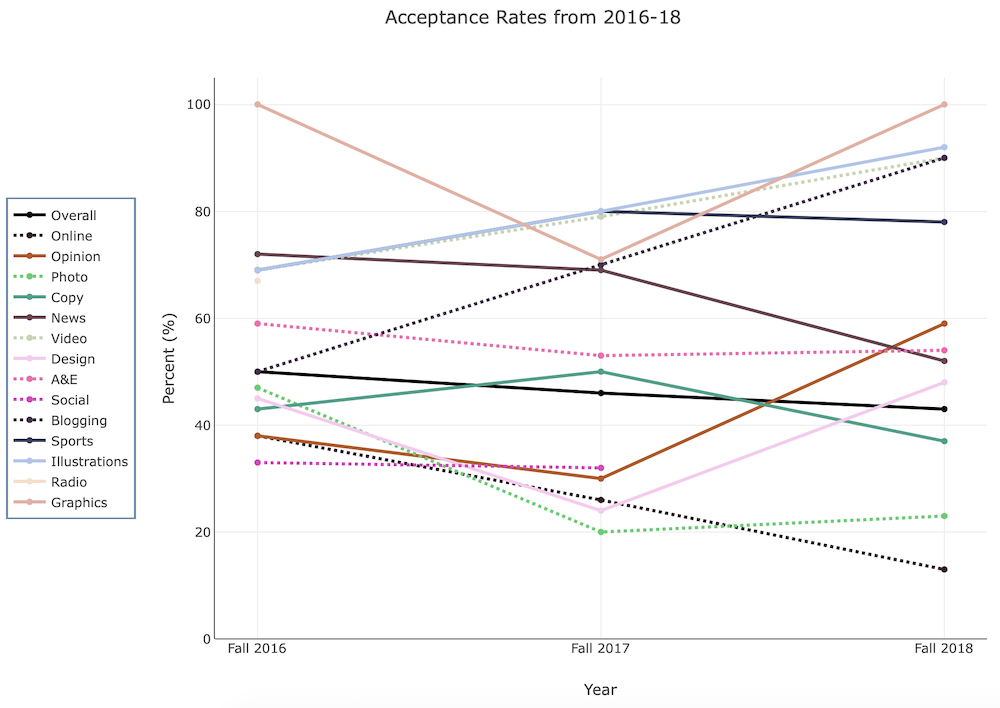
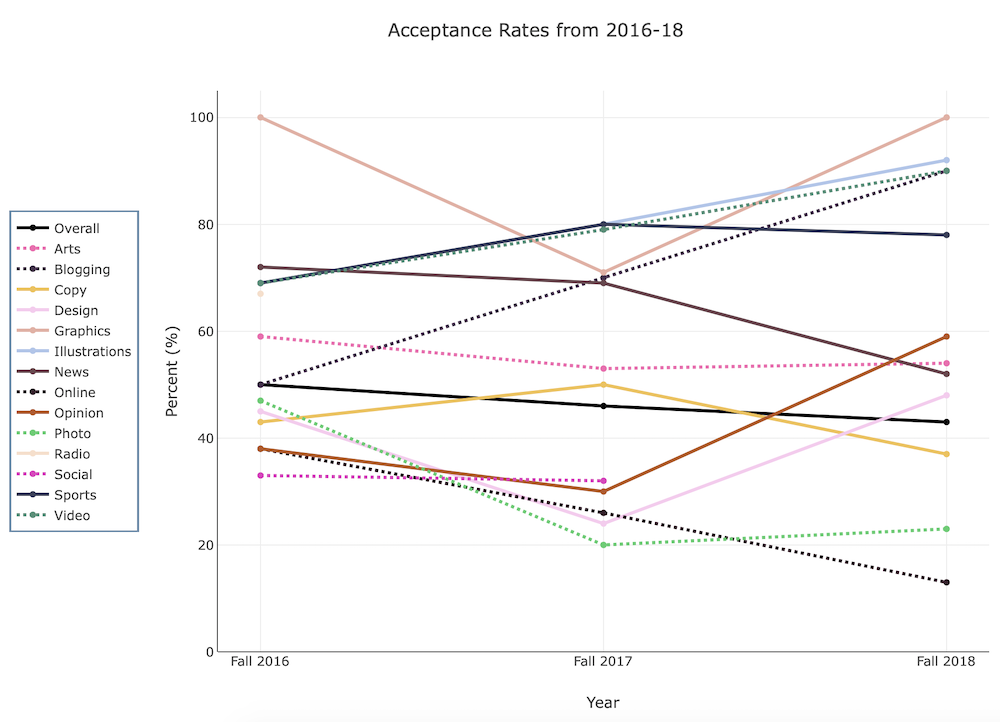
changed colors of graphs, edited text

diff --git a/js/posts/2018db-recruitment/acceptances-by-department.js b/js/posts/2018db-recruitment/acceptances-by-department.js
@@ -1,26 +1,34 @@
 
-		var data = [{
-		  values: [39, 67, 27, 5, 46, 5, 21, 7],
-		  labels: ['Humanities (Total): 39<br><br>Arts: 7<br>Blogging: 3<br>Copy: 7<br>Design: 1<br>Graphics: 1<br>Illustrations: 0<br>News: 7<br>Online: 2<br>Opinion: 4<br>Photo: 0<br>Sports: 2<br>Video: 5<br>', 
-		  	'Social Sciences (Total): 67<br><br>Arts: 3<br>Blogging: 0<br>Copy: 6<br>Design: 0<br>Graphics: 3<br>Illustrations: 3<br>News: 12<br>Online: 0<br>Opinion: 15<br>Photo: 3<br>Sports: 9<br>Video: 13<br>', 
-		  	'Physical Sciences (Total): 27<br><br>Arts: 0<br>Blogging: 2<br>Copy: 2<br>Design: 1<br>Graphics: 1<br>Illustrations: 1<br>News: 5<br>Online: 5<br>Opinion: 1<br>Photo: 1<br>Sports: 3<br>Video: 5<br>', 
-		  	'Undeclared (Total): 5<br><br>Arts: 1<br>Blogging: 0<br>Copy: 0<br>Design: 0<br>Graphics: 0<br>Illustrations: 0<br>News: 1<br>Online: 0<br>Opinion: 0<br>Photo: 1<br>Sports: 2<br>Video: 0<br>', 
-		  	'Life Sciences (Total): 46<br><br>Arts: 1<br>Blogging: 3<br>Copy: 6<br>Design: 4<br>Graphics: 5<br>Illustrations: 6<br>News: 8<br>Online: 0<br>Opinion: 5<br>Photo: 6<br>Sports: 1<br>Video: 1<br>',
-		  	'Theater, Film, and Television (Total): 5<br><br>Arts: 2<br>Blogging: 0<br>Copy: 0<br>Design: 0<br>Graphics: 0<br>Illustrations: 0<br>News: 0<br>Online: 0<br>Opinion: 0<br>Photo: 1<br>Sports: 1<br>Video: 1<br>',
-		  	'School of Engineering (Total): 21<br><br>Arts: 1<br>Blogging: 1<br>Copy: 1<br>Design: 3<br>Graphics: 0<br>Illustrations: 0<br>News: 2<br>Online: 11<br>Opinion: 0<br>Photo: 0<br>Sports: 1<br>Video: 1<br>',
-		  	'School of the Arts and Architecture (Total): 7<br><br>Arts: 0<br>Blogging: 0<br>Copy: 0<br>Design: 1<br>Graphics: 0<br>Illustrations: 2<br>News: 0<br>Online: 0<br>Opinion: 0<br>Photo: 3<br>Sports: 0<br>Video: 1<br>'
-		  	],
-		  hoverinfo: 'label+percent',
-		  type: 'pie'
-		}]
+var data = [{
+  type: 'pie',
+  marker: {
+    colors: ['#0D0630', '#43384F', '#8BBEB2','#E6F9AF','#DAB49D','#4D1930', '#A8CC9E', '#C1CE47']
+  },
+      values: [39, 67, 27, 5, 46, 5, 21, 7],
+      text:['Humanities','Social Sciences', 'Physical Sciences',
+      'Undeclared', 'Life Sciences', 'Theater, Film, and Television',
+    'School of Engineering', 'School of the Arts and Architecture' ],
+      hovertext: ['Humanities (Total): 39<br><br>Arts: 7<br>Blogging: 3<br>Copy: 7<br>Design: 1<br>Graphics: 1<br>Illustrations: 0<br>News: 7<br>Online: 2<br>Opinion: 4<br>Photo: 0<br>Sports: 2<br>Video: 5<br>',
+      'Social Sciences (Total): 67<br><br>Arts: 3<br>Blogging: 0<br>Copy: 6<br>Design: 0<br>Graphics: 3<br>Illustrations: 3<br>News: 12<br>Online: 0<br>Opinion: 15<br>Photo: 3<br>Sports: 9<br>Video: 13<br>',
+      'Physical Sciences (Total): 27<br><br>Arts: 0<br>Blogging: 2<br>Copy: 2<br>Design: 1<br>Graphics: 1<br>Illustrations: 1<br>News: 5<br>Online: 5<br>Opinion: 1<br>Photo: 1<br>Sports: 3<br>Video: 5<br>',
+      'Undeclared (Total): 5<br><br>Arts: 1<br>Blogging: 0<br>Copy: 0<br>Design: 0<br>Graphics: 0<br>Illustrations: 0<br>News: 1<br>Online: 0<br>Opinion: 0<br>Photo: 1<br>Sports: 2<br>Video: 0<br>',
+      'Life Sciences (Total): 46<br><br>Arts: 1<br>Blogging: 3<br>Copy: 6<br>Design: 4<br>Graphics: 5<br>Illustrations: 6<br>News: 8<br>Online: 0<br>Opinion: 5<br>Photo: 6<br>Sports: 1<br>Video: 1<br>',
+      'Theater, Film, and Television (Total): 5<br><br>Arts: 2<br>Blogging: 0<br>Copy: 0<br>Design: 0<br>Graphics: 0<br>Illustrations: 0<br>News: 0<br>Online: 0<br>Opinion: 0<br>Photo: 1<br>Sports: 1<br>Video: 1<br>',
+      'School of Engineering (Total): 21<br><br>Arts: 1<br>Blogging: 1<br>Copy: 1<br>Design: 3<br>Graphics: 0<br>Illustrations: 0<br>News: 2<br>Online: 11<br>Opinion: 0<br>Photo: 0<br>Sports: 1<br>Video: 1<br>',
+      'School of the Arts and Architecture (Total): 7<br><br>Arts: 0<br>Blogging: 0<br>Copy: 0<br>Design: 1<br>Graphics: 0<br>Illustrations: 2<br>News: 0<br>Online: 0<br>Opinion: 0<br>Photo: 3<br>Sports: 0<br>Video: 1<br>'
+      ],
+      hoverinfo:'text',
+      labels: ['Humanities','Social Sciences', 'Physical Sciences',
+      'Undeclared', 'Life Sciences', 'Theater, Film, and Television',
+    'School of Engineering', 'School of the Arts and Architecture' ]
+}];
 
-		var layout = {
-		  title: 'Breakdown by Department, Acceptances 2018-2019',
-		  height: 600,
-		  width: 500,
-		  showlegend: false
-		};
+var layout = {
+	title: '2018 Acceptances by Department',
+	height: 700,
+  width: 1100,
+};
 
-Plotly.newPlot('acceptance-rate-by-year-graph', data, layout, {
+Plotly.newPlot('majors-graph', data, layout, {
   displayModeBar: false
 });

diff --git a/js/posts/2018db-recruitment/acceptances-by-year-2018-2019.js b/js/posts/2018db-recruitment/acceptances-by-year-2018-2019.js
@@ -6,7 +6,7 @@
       name: 'First Years',
       type: 'bar',
       marker: {
-        color: 'rgb(255, 128, 255)'
+        color: '#32A287'
       },
       text: ['First Years: 8', 'First Years: 6', 'First Years: 12', 'First Years: 9', 'First Years: 1', 'First Years: 4',
       'First Years: 15', 'First Years: 8', 'First Years: 14', 'First Years: 11', 'First Years: 10', 'First Years: 7'
@@ -20,7 +20,7 @@
       name: 'Second Years',
       type: 'bar',
       marker: {
-        color: 'rgb(255, 153, 0)'
+        color: '#ADA8B6'
       },
       text: ['Second Years: 2', 'Second Years: 0', 'Second Years: 4', 'Second Years: 1', 'Second Years: 4', 'Second Years: 4',
       'Second Years: 6', 'Second Years: 1', 'Second Years: 3', 'Second Years: 0', 'Second Years: 2', 'Second Years: 11'
@@ -34,7 +34,7 @@
       name: 'Third Years',
       type: 'bar',
       marker: {
-        color: 'rgb(51, 204, 51)'
+        color: '#FFEEDB'
       },
       text: ['Third Years: 3', 'Third Years: 3', 'Third Years: 2', 'Third Years: 0', 'Third Years: 3', 'Third Years: 3',
       'Third Years: 7', 'Third Years: 6', 'Third Years: 5', 'Third Years: 4', 'Third Years: 3', 'Third Years: 3'
@@ -48,7 +48,7 @@
       name: 'Fourth Years',
       type: 'bar',
       marker: {
-        color: 'rgb(51, 153, 255)'
+        color: '#4C3B4D'
       },
       text: ['Fourth Years: 0', 'Fourth Years: 0', 'Fourth Years: 1', 'Fourth Years: 0', 'Fourth Years: 1', 'Fourth Years: 1',
             'Fourth Years: 5', 'Fourth Years: 1', 'Fourth Years: 0', 'Fourth Years: 0', 'Fourth Years: 2', 'Fourth Years: 4'
@@ -62,7 +62,7 @@
       name: 'Graduate Students',
       type: 'bar',
       marker: {
-        color: 'rgb(153, 51, 255)'
+        color: '#A53860'
       },
       text: ['Graduate Students: 2', 'Graduate Students: 0', 'Graduate Students: 0', 'Graduate Students: 0', 'Graduate Students: 0', 'Graduate Students: 0',
             'Graduate Students: 2', 'Graduate Students: 1', 'Graduate Students: 0', 'Graduate Students: 0', 'Graduate Students: 1', 'Graduate Students: 0'

diff --git a/js/posts/2018db-recruitment/db-acceptance-rate-over-the-years.js b/js/posts/2018db-recruitment/db-acceptance-rate-over-the-years.js
@@ -70,7 +70,7 @@ var data = [{
     width: 3
   },
   marker: {
-    color: '#32A287'
+    color: '#F2C14E'
   }
 }, {
   x: ['Fall 2016', 'Fall 2017', 'Fall 2018'],
@@ -246,7 +246,7 @@ var data = [{
     width: 3
   },
   marker: {
-    color: '#C4D6B0'
+    color: '#4D9078'
   }
 },];
 

diff --git a/_posts/2018-11-20-2018db-recruitment.md b/_posts/2018-11-20-2018db-recruitment.md
@@ -18,6 +18,7 @@ scripts:
   - //cdn.plot.ly/plotly-latest.min.js
   - /js/posts/2018db-recruitment/acceptances-by-year-2018-2019.js
   - /js/posts/2018db-recruitment/db-acceptance-rate-over-the-years.js
+  - /js/posts/2018db-recruitment/acceptances-by-department.js
 ---
 
 <p class = "para">
@@ -28,11 +29,12 @@ The start of each school year brings new beginnings for the Daily Bruin as its a
 The application process itself spans the course of two weeks. First, prospective interns fill out an application online, which typically involves a resume drop and responses to short answer questions. The editors then select a subset of the applicants to interview in person. Once the interns have been chosen, they undergo training that spans the rest of the quarter.
 </p>
 
-<div id="acceptance-rate-years-graph" align="center"></div>
-<div id="acceptance-rate-years-hover-info" style="margin-left: 80px;"></div>
 <p class = "para" align="center"><strong>
 *Double-click on the legend to view specific sections or go back to the original graph. Single-click on a section to add or remove its line from the graph.
 </strong></p>
+<div id="acceptance-rate-years-graph" align="center"></div>
+<div id="acceptance-rate-years-hover-info" style="margin-left: 80px;"></div>
+
 
 <br>
 
@@ -48,10 +50,11 @@ Online (including the Stack), the most-applied-to section at 132 applications, b
 Not all was woe for this year’s applicants, however. Graphics has a major boost in intern power, increasing its intern size from five to nine. News also experienced growth changes; while the number of applicants nearly doubled from last year, it took 50 percent more interns. Opinion also increased its intern class from 11 in 2017 to 24 this year.
 </p>
 
-<div id="acceptance-rate-by-year-graph" align="center"></div>
 <p class = "para" align="center"><strong>
 *Double-click on the legend to view specific age groups or go back to the original graph. Single-click on a section to add or remove its bar from the graph.
 </strong></p>
+<div id="acceptance-rate-by-year-graph" align="center"></div>
+
 
 <br>
 
@@ -67,20 +70,22 @@ The second most represented age groups were second and third year students. The 
 Though second and third year students were well represented in certain sections, the proportion of accepted interns per class decreased as age increased.
 </p>
 
-<div id="majors-graph"></div>
-/* INSERT MAJORS HIRED GRAPH HERE */
+<p class = "para" align="center"><strong>
+*Double-click on the legend to view specific sections or go back to the original graph. Single-click on a section to add or remove its slice from the graph.
+</strong></p>
+<div id="majors-graph" align="center"></div>
 
 <p class = "para">
-Daily Bruin's incoming class represents a total of 74 undergraduate and graduate majors. The most diverse section is News, with 23 majors represented. The least diverse sections is Online, with 7 majors represented. 
-(Note: double majors are counted uniquely as a major.)
+Daily Bruin's incoming class represents a total of 74 undergraduate and graduate majors. The most diverse section is News, with 23 majors represented. The least diverse sections is Online, with 7 majors represented.
+(Note: Double majors are counted as two people with single majors.)
 </p>
 
 <p class ="para">
-In some sections, a single major comprises the significant plurality of the secion. For example, 40% of the 15 Arts section new-hires are English majors, and interestingly, 33% of the 12 Illustrations section new-hires are Psychology majors. Computer Science and Computer Science & Engineering majors comprise 35% and 29%, respectively, of Online section new-hires. 
+In some sections, a single major comprises the significant plurality of the secion. For example, 40% of the 15 Arts section new-hires are English majors, and interestingly, 33% of the 12 Illustrations section new-hires are Psychology majors. Computer Science and Computer Science & Engineering majors comprise 35% and 29%, respectively, of Online section new-hires.
 </p>
 
 <p class="para">
-Over all sections of the Daily Bruin, English, Psychology, and Economics majors represent the plurality of the incoming class.  
+Over all sections of the Daily Bruin, English, Psychology, and Economics majors represent the plurality of the incoming class.
 </p>
 
 <br/>
